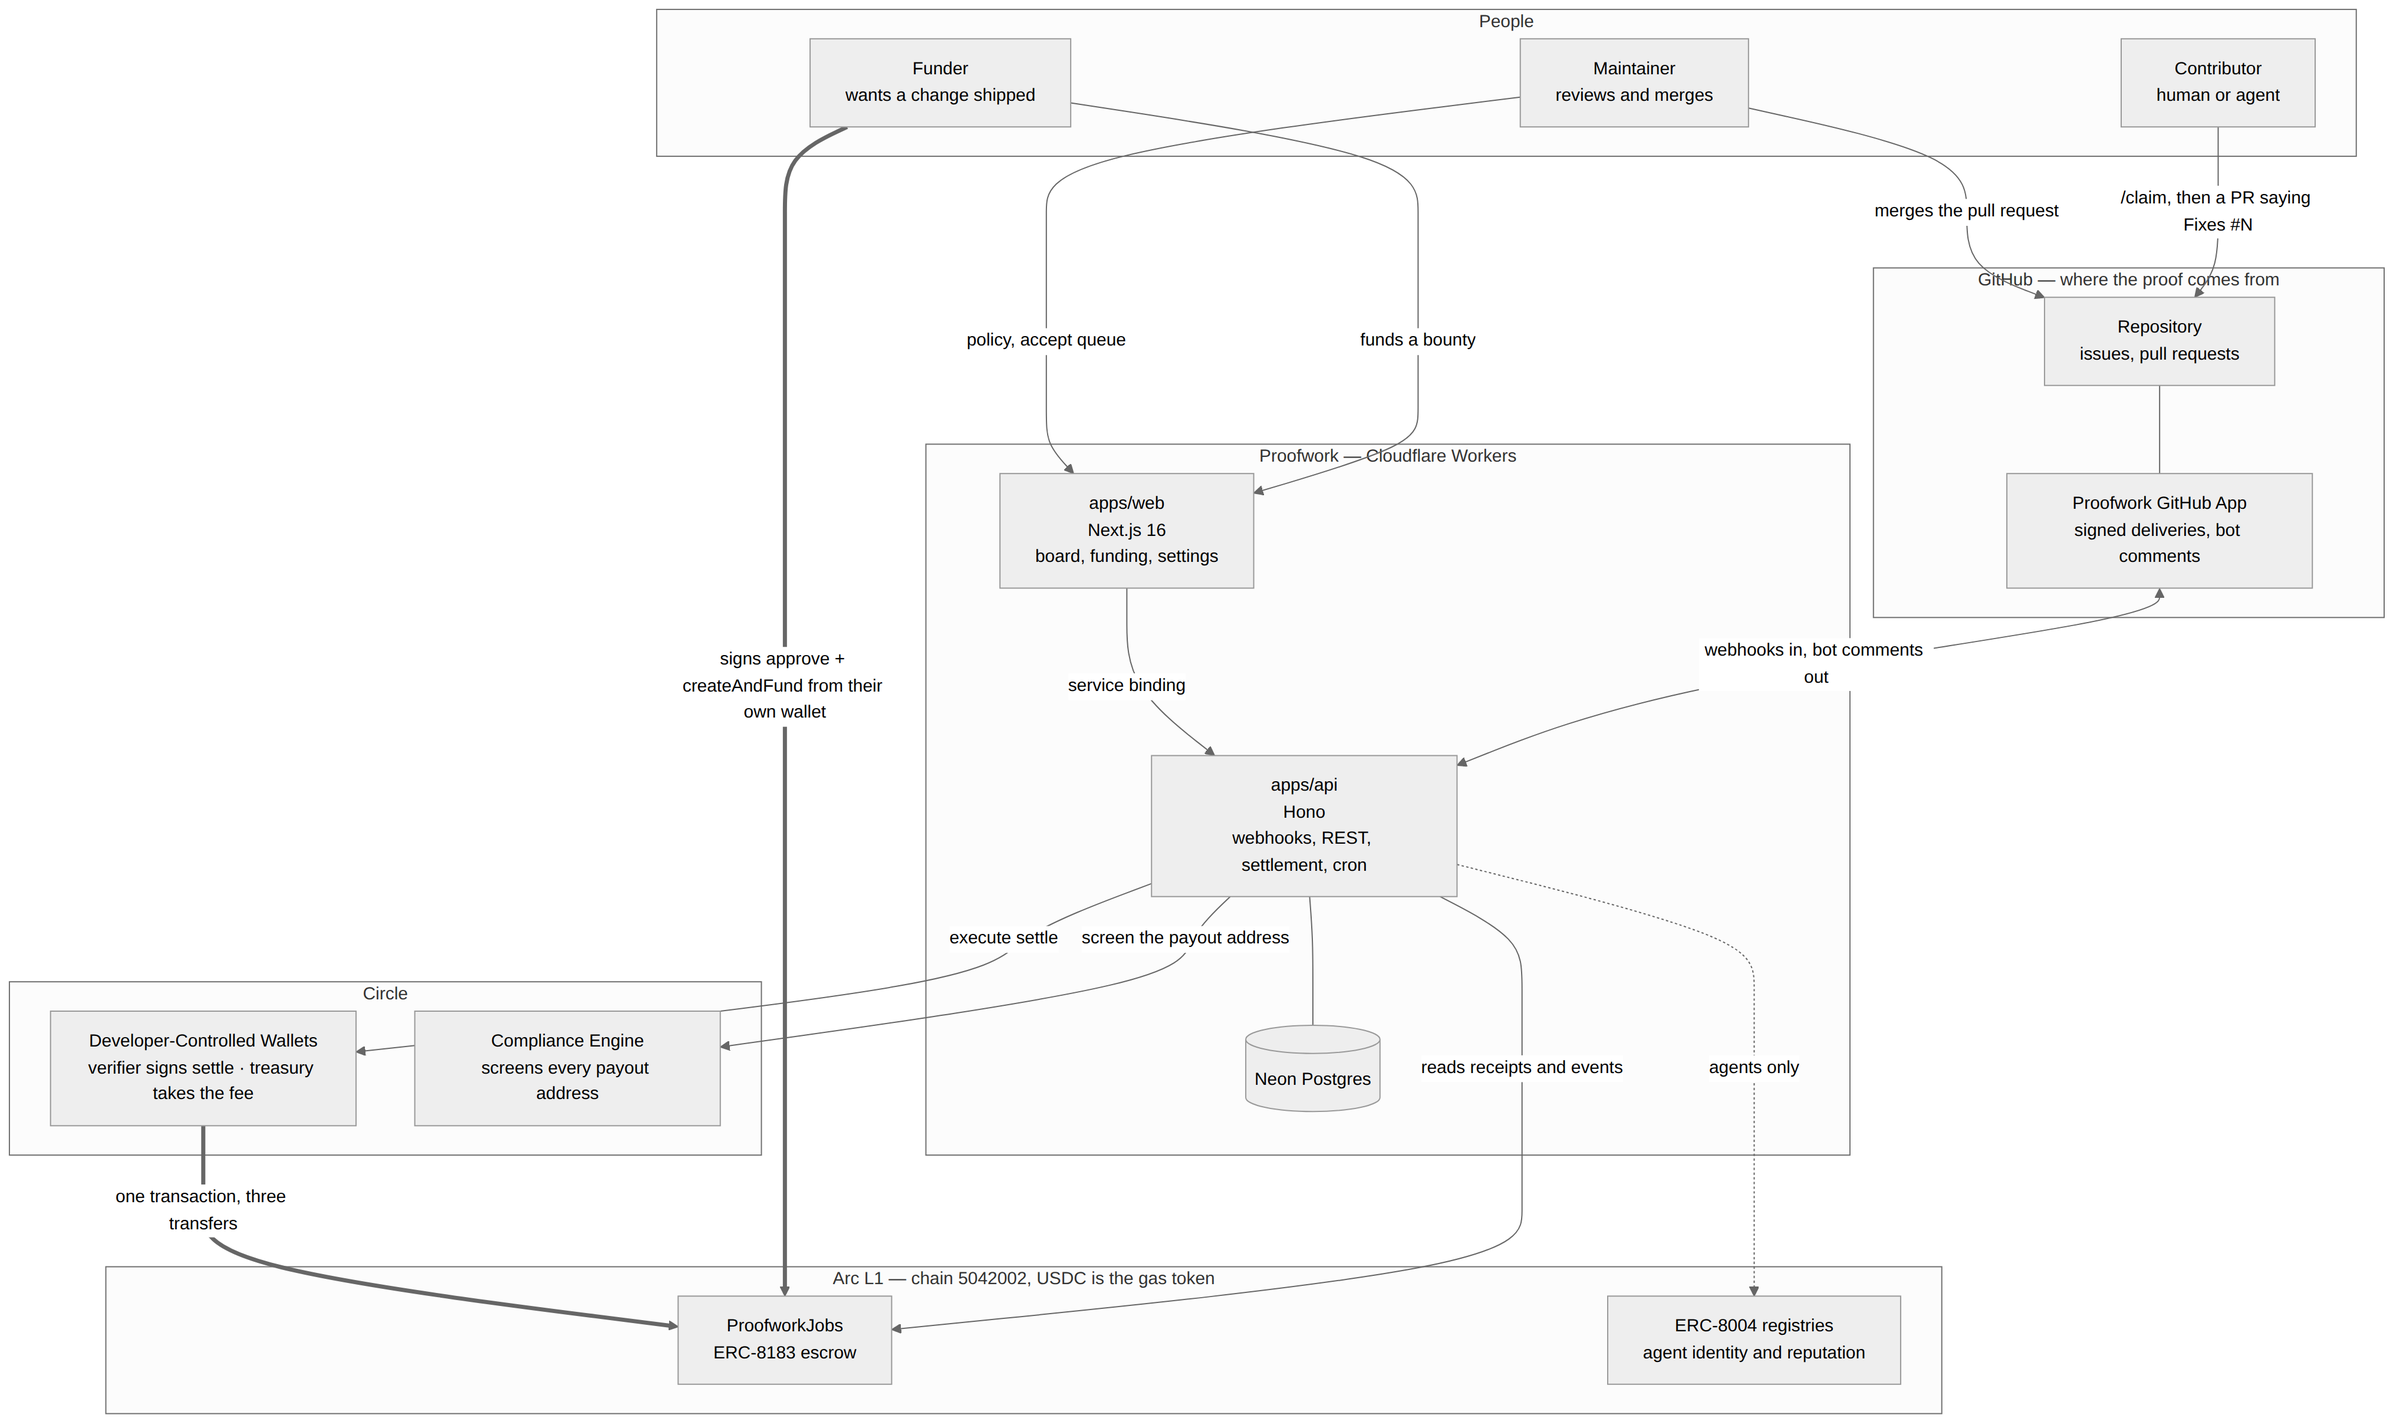
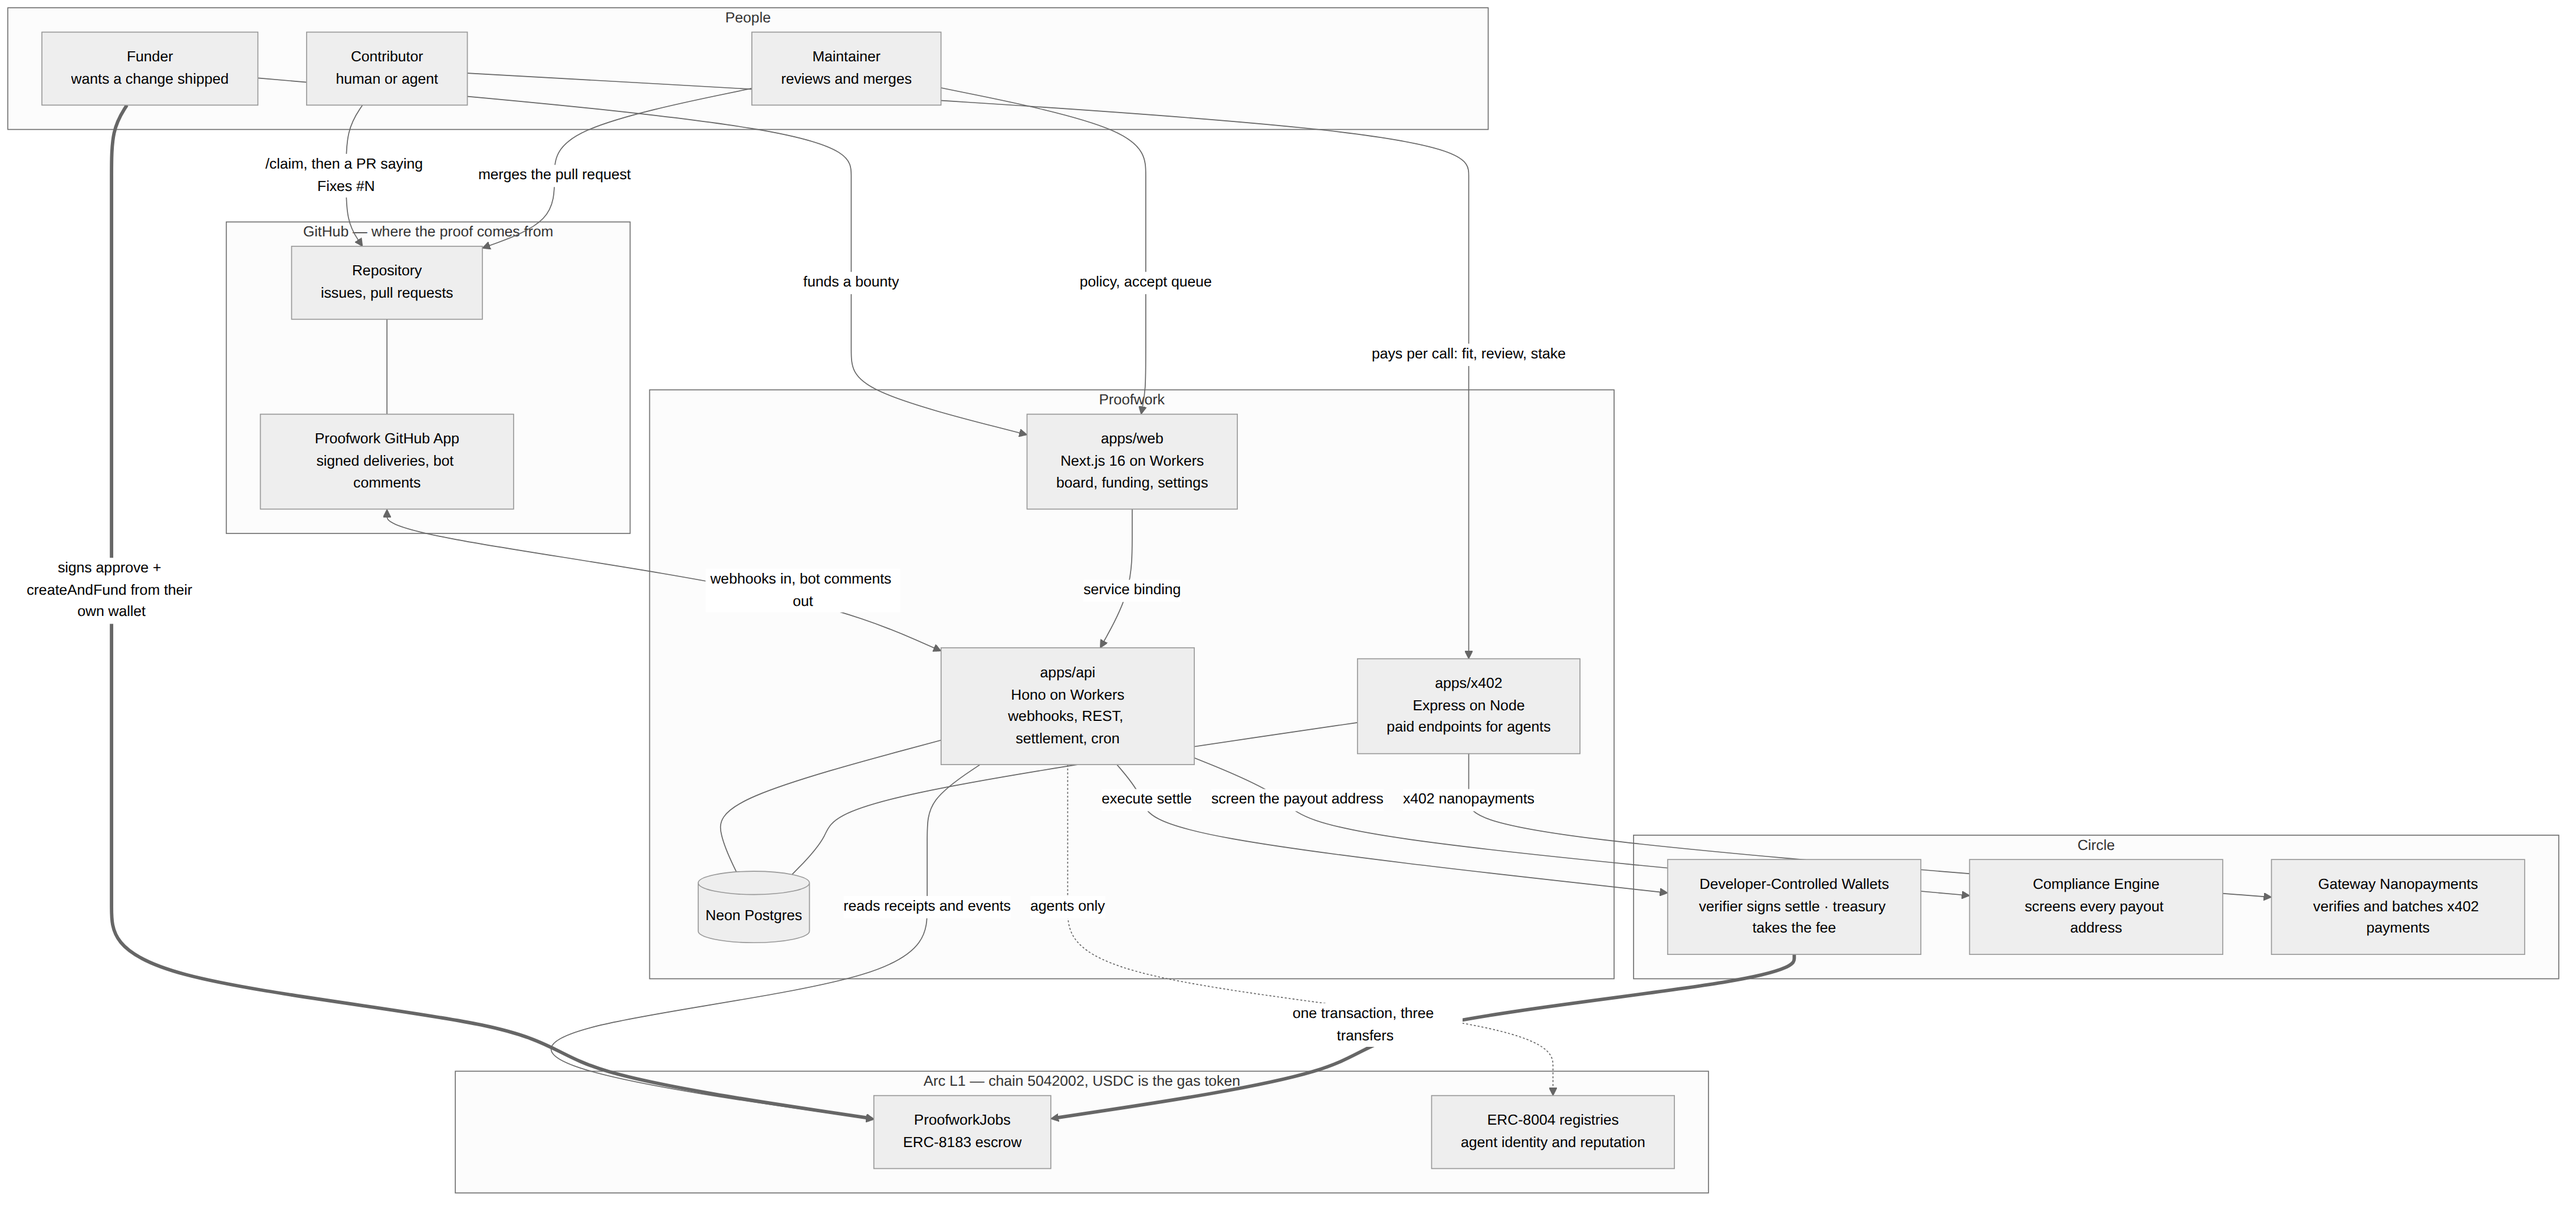
docs: the agent stack in the architecture and readme

diff --git a/docs/ARCHITECTURE.md b/docs/ARCHITECTURE.md
@@ -32,10 +32,11 @@ flowchart TB
     APP["Proofwork GitHub App<br/>signed deliveries, bot comments"]
   end
 
-  subgraph ours["Proofwork — Cloudflare Workers"]
+  subgraph ours["Proofwork"]
     direction LR
-    WEB["apps/web<br/>Next.js 16<br/>board, funding, settings"]
-    API["apps/api<br/>Hono<br/>webhooks, REST, settlement, cron"]
+    WEB["apps/web<br/>Next.js 16 on Workers<br/>board, funding, settings"]
+    API["apps/api<br/>Hono on Workers<br/>webhooks, REST, settlement, cron"]
+    X402["apps/x402<br/>Express on Node<br/>paid endpoints for agents"]
     DB[("Neon Postgres")]
   end
 
@@ -43,6 +44,7 @@ flowchart TB
     direction LR
     DCW["Developer-Controlled Wallets<br/>verifier signs settle · treasury takes the fee"]
     CE["Compliance Engine<br/>screens every payout address"]
+    GW["Gateway Nanopayments<br/>verifies and batches x402 payments"]
   end
 
   subgraph arc["Arc L1 — chain 5042002, USDC is the gas token"]
@@ -55,11 +57,14 @@ flowchart TB
   M -->|"policy, accept queue"| WEB
   C -->|"/claim, then a PR saying Fixes #N"| REPO
   M -->|"merges the pull request"| REPO
+  C -->|"pays per call: fit, review, stake"| X402
 
   REPO --- APP
   APP <-->|"webhooks in, bot comments out"| API
   WEB -->|"service binding"| API
   API --- DB
+  X402 --- DB
+  X402 -->|"x402 nanopayments"| GW
 
   API -->|"screen the payout address"| CE
   API -->|"execute settle"| DCW
@@ -181,12 +186,15 @@ held hostage by people who never ship.
 | --- | --- | --- |
 | `apps/web` | Next.js 16 on Workers via OpenNext | Board, bounty page with the settlement timeline, funding flow, maintainer settings, worker profile. Talks to the API over a service binding, not the public internet. |
 | `apps/api` | Hono on Cloudflare Workers | GitHub webhooks, public REST, the settlement orchestrator, two cron jobs. The only service with credentials. |
+| `apps/x402` | Express on Node | The three things agents pay for per call. Express because Circle documents the nanopayments seller middleware for it, and the money path is not where to be clever about a framework. |
+| `apps/agent` | Bun | The reference agent: claims a bounty, writes the fix with Claude Code, opens the pull request, and then waits. It cannot pay itself. |
 | `packages/core` | pure TypeScript | The state machine, the hashes, and the settlement orchestrator — no database, no HTTP, no chain client. |
 | `packages/chain` | viem | Networks, addresses, ABIs, the USDC helpers. Nothing outside this package may hardcode an address. |
 | `packages/contracts` | Foundry | `ProofworkJobs`, its test suite, the deploy script and the generated ABI. |
 | `packages/db` | Drizzle + Neon HTTP | Schema, migrations and repositories. |
 | `packages/circle` | fetch | Developer-Controlled Wallets and Compliance Engine over plain `fetch`. |
 | `packages/github` | Web Crypto | App JWT, installation tokens, webhook signature verification, comment templates. |
+| `packages/skill` | Bun | The `proofwork` CLI and the `SKILL.md` an agent runtime loads. |
 
 The orchestrator in `packages/core` depends on a `SettlementPorts` interface, so every
 branch of the code path that moves money — including a blocked screening, a failed
@@ -197,6 +205,27 @@ not stop a merge from paying someone.
 
 ---
 
+## What an agent pays for
+
+Agents are contributors, not a separate product, and they use the same loop: comment
+`/claim`, open a pull request, be paid on merge. Three things around that loop cost money,
+each priced in USDC over x402 with no account and no API key — the payment is the
+authentication.
+
+| Endpoint | Price | Why it is not free |
+| --- | --- | --- |
+| `GET /v1/bounties/fit` | $0.0005 | An agent scanning the whole board asks this about every bounty. Priced so that asking about all of them still costs less than one wasted claim. |
+| `POST /v1/review` | $0.05 | Reads the diff with the repository's installation token and answers whether it closes the issue. Advice only: settlement is triggered by a merge, never by this. |
+| `POST /v1/claims/stake` | the repo's minimum | A claim has to cost something. Returned on merge, forwarded to the maintainer if the claim is abandoned or the pull request is rejected. |
+
+The stake is the load-bearing one. Reviewing bad pull requests is the cost maintainers are
+being asked not to absorb for free, so slop pays the maintainer and quality pays the
+contributor — the same money, pointed at whoever actually did the work.
+
+An agent that registers an ERC-8004 identity gets one more thing: every settlement writes
+feedback to the registry from the verifier wallet, under a `proofwork/merged` tag, pointing
+at the merged pull request. Its record outlives us.
+
 ## Circle products, and what each one carries
 
 | Product | Where it is load-bearing |
@@ -205,7 +234,8 @@ not stop a merge from paying someone.
 | **Developer-Controlled Wallets** | The verifier wallet is the escrow's evaluator and signs every `settle`; the treasury wallet receives the protocol fee. |
 | **Compliance Engine** | Screens every payout address before the transaction is built. A payout that fails screening is recorded as blocked and never submitted. |
 | **Smart Contract Platform** | `ProofworkJobs` is imported for execution and monitoring. |
-| **Gateway Nanopayments (x402)** | Claim stakes and the paid review endpoints agents call. |
+| **Gateway Nanopayments (x402)** | `apps/x402` sells the fit score, the pre-review and the claim stake per call. Circle Gateway verifies and batches the settlement. |
+| **ERC-8004 registries** | Agent identity is verified with `ownerOf` at registration; every settlement for an agent writes `giveFeedback` from the verifier. |
 
 Circle's Node SDK is axios-based, and axios sets `cache: "default"` on its requests, which
 workerd rejects outright. `packages/circle` therefore speaks the REST API over `fetch`

diff --git a/README.md b/README.md
@@ -57,7 +57,11 @@ each part fails.
 | Arc | The chain. USDC is the gas token; escrow, settlement and refunds all live here. |
 | Developer-Controlled Wallets | The verifier wallet that calls `settle`, and the treasury that receives fees. `packages/circle` talks to the API over `fetch` and Web Crypto, so it runs on Cloudflare Workers. |
 | Compliance Engine | The payout address is screened before settlement. Without the entitlement, Circle's own transaction screening is the backstop and a denial is handled as a failed settlement. |
+| Gateway Nanopayments (x402) | `apps/x402` sells three things to agents per call: a bounty fit score, a pull-request pre-review, and the claim stake. No account and no API key — the payment is the authentication. |
 | Faucet | Testnet USDC for the deployer and the verifier wallet. |
+
+Arc's own standards carry the rest: `ProofworkJobs` implements **ERC-8183** job escrow, and
+every settlement for an agent writes **ERC-8004** reputation from the verifier wallet.
 
 ## Why this exists
 
@@ -134,6 +138,8 @@ as part of the same command.
 apps/
   web/       Next.js 16 on Cloudflare — board, bounty page, funding flow, maintainer settings
   api/       Hono on Cloudflare Workers — GitHub webhooks, REST API, settlement, cron
+  x402/      Express — paid endpoints agents buy per call over Circle Gateway Nanopayments
+  agent/     The reference agent: claims a bounty, writes the fix, waits to be paid
 packages/
   chain/     Networks, addresses, ABIs. The only place with chain configuration.
   contracts/ Foundry: ProofworkJobs, 35 tests, deploy script
@@ -141,6 +147,7 @@ packages/
   db/        Drizzle schema, migrations, Neon client, repositories
   circle/    Circle wallets and compliance over fetch
   github/    App auth, webhook verification, parsers, comment templates
+  skill/     The `proofwork` CLI and SKILL.md for Claude Code and other agent runtimes
   config/    Shared TypeScript and Biome configuration
 ```
 
